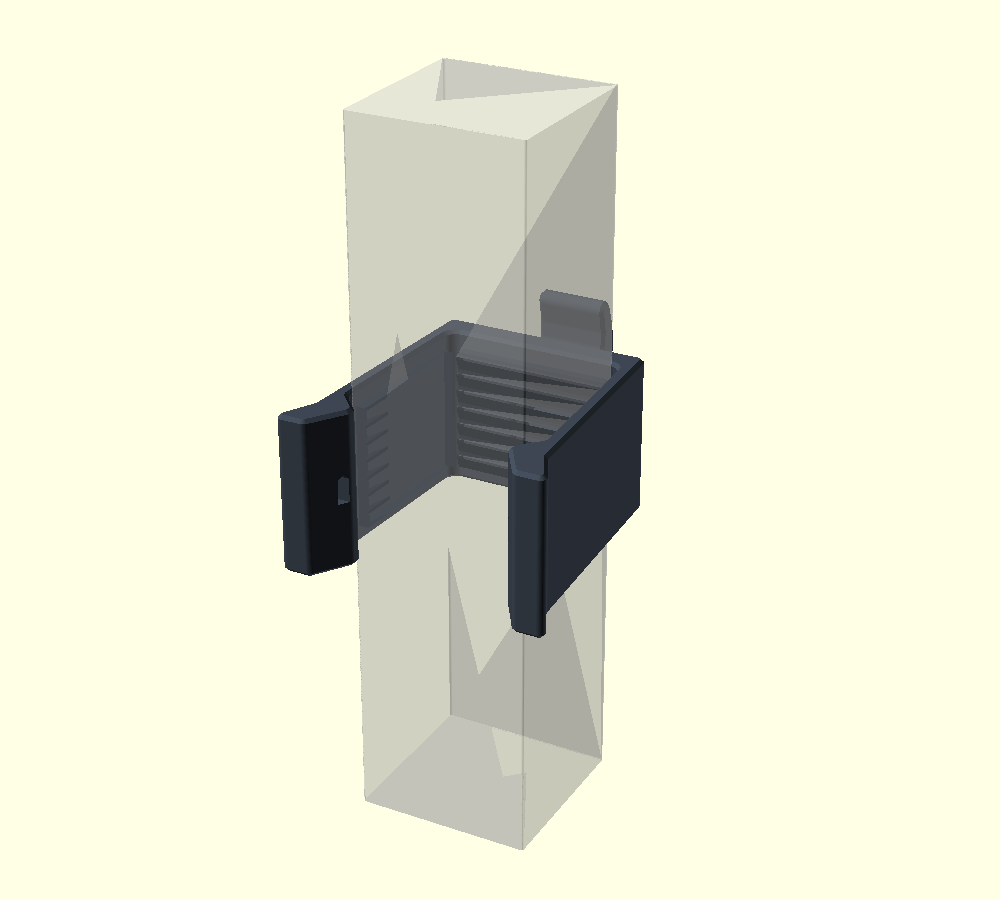
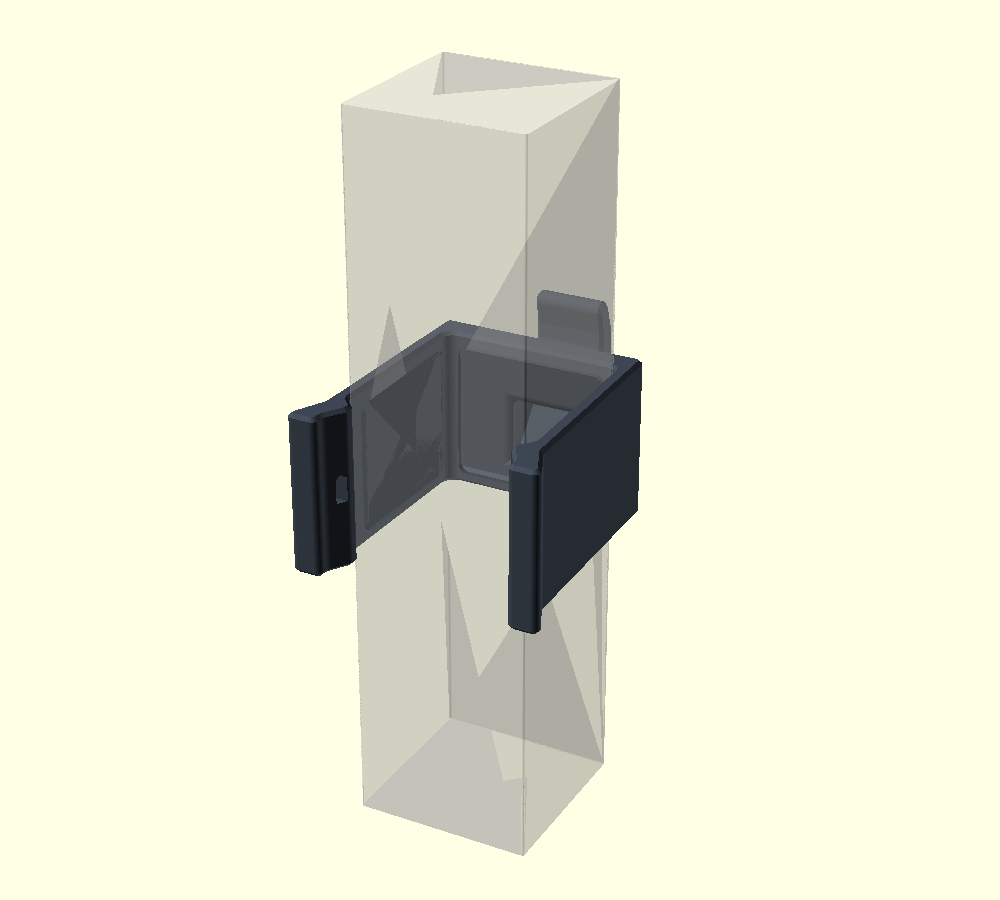
post-hook: fix the preload that broke the first print
It snapped going on, and the measurement that explains it is blunt: with
the pads fitted the mouth was 35 mm for a 40 mm post.

That number is not the pads. pad_t cancels straight out of the opening --
opening = post_w - 2*preload -- so thinning them would have changed nothing.
Only preload opens the mouth, and it was 4x too big.

It had been sized from a friction budget that deliberately left the load's
own moment out as "conservative". That is not conservative; it is leaving
out the mechanism doing most of the work and letting the compensating
parameter absorb the error. A load on the hook presses the back pad and the
lips into the post as a couple worth ~13 N of friction on its own, which is
why the clip nearly held a helmet with no pads and no preload at all.
springcheck.py now counts both terms and fails if the preload's share drops
too far below the moment's.

    opening           35 mm -> 38 mm
    preload per arm   2.5   -> 1.0
    spread to fit     4.5   -> 2.5
    peak root stress  36 MPa (1.38x) -> 21 MPa (2.35x)
    push to fit       5.9 kgf -> 3.6 kgf

The pads are now thin flat slabs, 1.2 mm, six layers. Flat rather than
toothed for a better reason than the teeth outgrowing a 1.2 mm pad, which
they did: elastomer friction has an adhesive component that scales with real
contact area, so concentrating the same normal force onto a few crests
trades contact for pressure, and that only pays when biting into something
[…]

diff --git a/models/post-hook/tools/springcheck.py b/models/post-hook/tools/springcheck.py
@@ -108,7 +108,7 @@ def main():
     fails = []
 
     arm_t, h, E = p["arm_t"], p["collar_h"], p["petg_e_mpa"]
-    preload, lip_reach = p["preload"], p["lip_reach"]
+    preload, lip_catch = p["preload"], p["lip_catch"]
     pad_t, post_w, post_d = p["pad_t"], p["post_w"], p["post_d"]
     r = p["post_corner_r"]
     load = p["load_kg"] * G
@@ -117,6 +117,7 @@ def main():
     # Rederived exactly as params.scad does, and only from literals — anything
     # that file computes is recomputed here rather than scraped, because the
     # scraper only sees plain numbers and would silently miss an expression.
+    lip_reach = pad_t + lip_catch
     hw_in = post_w / 2 + pad_t - preload
     cam_c = post_w / 2 + post_d / 2 - 2 * r + math.sqrt(2) * (r + p["lip_clear"])
     y_cam_start = cam_c - preload - hw_in
@@ -136,14 +137,46 @@ def main():
           f"I = {I:.0f} mm^4 -> {k:.1f} N/mm per arm")
 
     # ---- 1. grip -----------------------------------------------------------
+    # TWO sources, and getting this wrong by leaving the second one out is what
+    # broke the first print: the preload was sized to carry the load on friction
+    # alone, which needed 2.5 mm of interference per arm.
+    #
+    #   preload  the arms squeezing the pads onto the post. Load-independent.
+    #   moment   the load's own couple. It presses the back pad and the lips
+    #            into the post, and that normal force is proportional to the
+    #            load — so this term is self-energising, and its MARGIN is
+    #            roughly constant whatever you hang on it.
+    #
+    # The second is the larger of the two and was excluded as "conservative".
+    # It is not conservative to leave out the mechanism doing most of the work;
+    # it just moves the error into the parameter that compensates.
     normal = k * preload
-    friction = 2 * normal * mu
+    f_preload = 2 * normal * mu
+
+    # The load sits mid-cradle on whichever hook is fitted; the deepest one is
+    # the worst case. Read from the size table rather than restated, so a new
+    # row cannot quietly invalidate this.
+    rows = re.findall(r'\["\w+",\s*([\d.]+),\s*([\d.]+),\s*([\d.]+),\s*([\d.]+)\]',
+                      open(os.path.join(HERE, "..", "src", "params.scad")).read())
+    load_arm = max((float(r[0]) - p["tip_t"]) / 2 for r in rows)
+    a = post_d / 2 + pad_t + p["back_t"] + load_arm
+    couple = p["couple_frac"] * h
+    f_couple = load * a / couple
+    f_moment = f_couple * (mu + p["mu_petg"])
+
+    friction = f_preload + f_moment
     margin = friction / load
-    print(f"  seated: each arm sprung {preload} mm -> {normal:.0f} N normal; "
-          f"friction at mu {mu} is {friction:.0f} N against a "
-          f"{p['load_kg']} kg ({load:.1f} N) load  = {margin:.1f}x")
+    print(f"  grip: {preload} mm of preload per arm -> {normal:.0f} N normal, "
+          f"{f_preload:.0f} N of friction")
+    print(f"        the load's own moment adds {f_couple:.0f} N at each contact "
+          f"({a:.0f} mm arm over a {couple:.0f} mm couple) -> {f_moment:.0f} N more")
+    print(f"        total {friction:.0f} N against a {p['load_kg']} kg "
+          f"({load:.1f} N) load  = {margin:.1f}x")
     if margin < 2.0:
         fails.append(f"grip margin {margin:.1f}x is under 2x")
+    if f_preload < 0.4 * f_moment:
+        fails.append(f"preload contributes only {f_preload:.0f} N against the "
+                     f"moment's {f_moment:.0f} — too little left if the load comes off")
 
     # ---- 2. what it costs to get it on and off -----------------------------
     lat = k * spread_peak

diff --git a/models/post-hook/README.md b/models/post-hook/README.md
@@ -6,8 +6,8 @@ it off again.
 
 |  |  |
 |---|---|
-| **Parts** | `clip_s` / `clip_m` / `clip_l` (PETG) + `pad_back` + 2 × `pad_side` (TPU) |
-| **Load** | 1 kg, with a 3.4× margin on the friction that carries it |
+| **Parts** | `clip_s` / `clip_m` / `clip_l` (PETG) + `pad_back` + 2 × `pad_side` (TPU, 1.2 mm) |
+| **Load** | 1 kg, with a 2.8× margin on the friction that carries it |
 | **Fixings** | none. A cable tie is optional and the slots are there for it |
 | **Supports** | none, on any part |
 
@@ -26,13 +26,15 @@ its whole length, so a coupon cannot tell you any of it.
 
 The clip is a C that wraps three faces of the post. The two arms are the spring:
 their inner faces are drawn 2 × 2.5 mm closer together than the post plus its
-pads, so putting it on springs them open and they squeeze back. That squeeze,
-through the TPU pads, is the entire load path — 34 N of friction against a
-9.8 N load. Nothing is clamped and nothing is bolted.
+pads, so putting it on springs them open and they squeeze back. But that squeeze
+is only *half* the load path, and assuming it was all of it is what broke the
+first print — see below. The other half is the load's own moment, which presses
+the back pad and the lips into the post with about 15 N each. Together: 28 N of
+friction against a 9.8 N load. Nothing is clamped and nothing is bolted.
 
 Each arm ends in a lip whose retention face is a **45° cam tangent to the post's
 corner**. Pulling the clip off drives the corner up that cam, and at 45° the
-force ratio is 1:1, so getting it off by straight pull needs the same 45 N it
+force ratio is 1:1, so getting it off by straight pull needs the same 36 N it
 would take to spring the arms apart — while squeezing the thumb tabs releases it
 instantly. The cam also makes the fore-and-aft capture elastic: the arms' inward
 force resolves on a 45° face into a component pushing the post back onto the
@@ -55,27 +57,68 @@ profile and applying a closing; `hook_side_fillet` in plan, a true radius
 tangent to the wall and to the hook's side face, swept up through the hook's own
 profile so it follows the rake instead of standing on the bed.
 
-## Why the pads are three flat slabs
+## What the first print taught
 
-They were one U, printed standing on end because that is how it sits on the
-post. That made it three thin 28 mm-tall walls in TPU on a 41 mm footprint:
-floppy, slow, and prone to shifting. Split into three and laid flat it is three
-low slabs — **15 layers instead of 140**.
+It broke going on, and the measurement that explains it is blunt: with the pads
+fitted the mouth was **35 mm for a 40 mm post**.
 
-Laid flat the *teeth get easier too*, which is the part that looks wrong until
-you work it through. The sawtooth's depth becomes print Z, so above the valley
-only the upper parts of the ramps are present and each one **shrinks** as z
-rises. There is no overhang anywhere. Standing up, the whole part was an
-unsupported shell.
+That number is not the pads. The pad thickness cancels straight out of it:
 
-It costs the studs. A stud has to point either into the bed or out of the pad's
-gripping face, and neither prints — so the pads are a push fit, with glue if
-they will not stay put. That only matters between assembling the clip and
-fitting it: once it is on the post, the post holds them against the PETG.
+```
+hw_in   = post_w/2 + pad_t − preload      (arm's inner face)
+crest   = hw_in − pad_t = post_w/2 − preload
+opening = post_w − 2·preload              ← pad_t is gone
+```
 
-It costs **no collar geometry at all**. `pad_t` is still measured from the arm's
-inner face to the crest exactly as the U's wall was, so `hw_in` is unchanged and
-every spring, cam and catch number is identical either way.
+40 − 2×2.5 = 35. Halving `pad_t` would have changed nothing; the only parameter
+that opens the mouth is `preload`, and it was 4× too big.
+
+**Why it was too big.** It had been sized from a friction budget that
+deliberately left the load's own moment out as "conservative". That is not
+conservative — it is leaving out the mechanism doing most of the work and
+letting the parameter that compensates absorb the error. A load on the hook
+presses the back pad and the lips into the post as a couple, worth ~13 N of
+friction on its own, which is why the clip nearly held a helmet with **no pads
+and no preload at all**. `springcheck.py` now counts both terms, and fails if
+the preload contribution drops too far below the moment's.
+
+| | before | now |
+|---|---|---|
+| opening | 35 mm | **38 mm** |
+| preload per arm | 2.5 mm | 1.0 mm |
+| spread to fit | 4.5 mm | 2.5 mm |
+| peak root stress | 36 MPa (1.38×) | **21 MPa (2.35×)** |
+| push to fit | 5.9 kgf | 3.6 kgf |
+
+A second coupling bit on the way through, worth recording because it was silent:
+the catch is `lip_reach − pad_t`, and `lip_reach` had been left as a literal. So
+thinning the pads from 3.0 to 1.2 deepened the catch from 2.0 to 3.8 mm on its
+own, putting the spread back to 4.8 and the stress to 39 MPa. `lip_reach` is now
+derived from `lip_catch`, so moving the pad moves the lip with it.
+
+## Why the pads are thin, flat slabs
+
+They were a standing U with a sawtooth face. The U printed as three thin 28 mm
+walls in TPU — floppy, slow, prone to shifting — so it became three slabs lying
+flat, **6 layers each**.
+
+`pad_t` is 1.2 because the pad's job is μ, not bulk, and — per the algebra above
+— its thickness never set the fit anyway.
+
+**Flat, not toothed**, for a better reason than "the teeth got too big for a
+1.2 mm pad" (they did). Elastomer friction is not Amontons': it has an adhesive
+component that scales with *real contact area*, so concentrating the same normal
+force onto a few tooth crests trades contact away for pressure. That pays only
+when biting into something rough. Against a smooth painted post, full flat
+contact grips harder.
+
+Flat also kills an assembly trap nothing on the part warned about: a sawtooth is
+directional twice over — which face goes to the post, and which end is up — and
+fitted upside down its steps resist the one direction that does not matter.
+
+What it costs is the teeth's compliance, which used to absorb `post_w` tolerance
+by crushing. That now comes out of the preload margin, which is why `preload` is
+1.0 rather than the 0.5 the grip alone would need.
 
 ## Where the stress goes
 
@@ -151,12 +194,13 @@ the mouth, not on the reach.
 
 ## Fitting it
 
-1. Lay the three pads on the collar's inner faces, teeth inward — the wide one
-   on the back wall, the two long ones on the arms. They are a push fit; a dab
-   of glue if they will not stay put. Once the clip is on the post there is
-   nowhere for them to go, so this only matters until you fit it.
+1. Lay the three pads on the collar's inner faces — the wide one on the back
+   wall, the two long ones on the arms. They are plain flat slabs with no
+   orientation: both faces are the same, so there is no wrong way round. A push
+   fit, with a dab of glue if they will not stay put. Once the clip is on the
+   post there is nowhere for them to go, so this only matters until you fit it.
 2. Offer the clip up to the post and press. The lead-in ramps spread the arms;
-   about 5.9 kgf, two thumbs, and it clicks over the corners.
+   about 3.6 kgf, two thumbs, and it clicks over the corners.
 3. To remove: squeeze the two thumb tabs outward and lift it off.
 
 ### The cable tie (optional)
@@ -242,14 +286,14 @@ test a catch is to move the part until it fouls.
 From `make check`, on the default 40 × 40 post:
 
 ```
-arm spring   3.6 x 36 mm section, 42.2 mm free   ->  11.2 N/mm per arm
-grip         28 N per side, 34 N of friction     ->  3.4x on 1 kg
-fitting      4.5 mm of spread, 30 deg lead-in    ->  5.9 kgf of push
-holding on   2.0 mm of travel over a 45 deg cam  ->  4.6 kgf of straight pull
-strain       1.36% peak while fitting, 0.76% sustained  (PETG yields ~2.5%)
-root stress  fillet r2.5, Kt 1.33            ->  36 MPa peak, 1.38x on yield
-                                                 20 MPa sustained
-catch        0 mm^3 at rest (tangent), 55 mm^3 pulled 1 mm off
+arm spring   3.6 x 36 mm section, 41.1 mm free   ->  12.1 N/mm per arm
+grip         15 N preload + 13 N from the moment ->  2.8x on 1 kg
+fitting      2.5 mm of spread, 30 deg lead-in    ->  3.6 kgf of push
+holding on   1.5 mm of travel over a 45 deg cam  ->  3.7 kgf of straight pull
+strain       0.80% peak while fitting, 0.32% sustained  (PETG yields ~2.5%)
+root stress  fillet r2.5, Kt 1.33            ->  21 MPa peak, 2.35x on yield
+                                                  9 MPa sustained
+catch        0 mm^3 at rest (tangent), 54 mm^3 pulled 1 mm off
 ```
 
 ## Reading the assembly render
